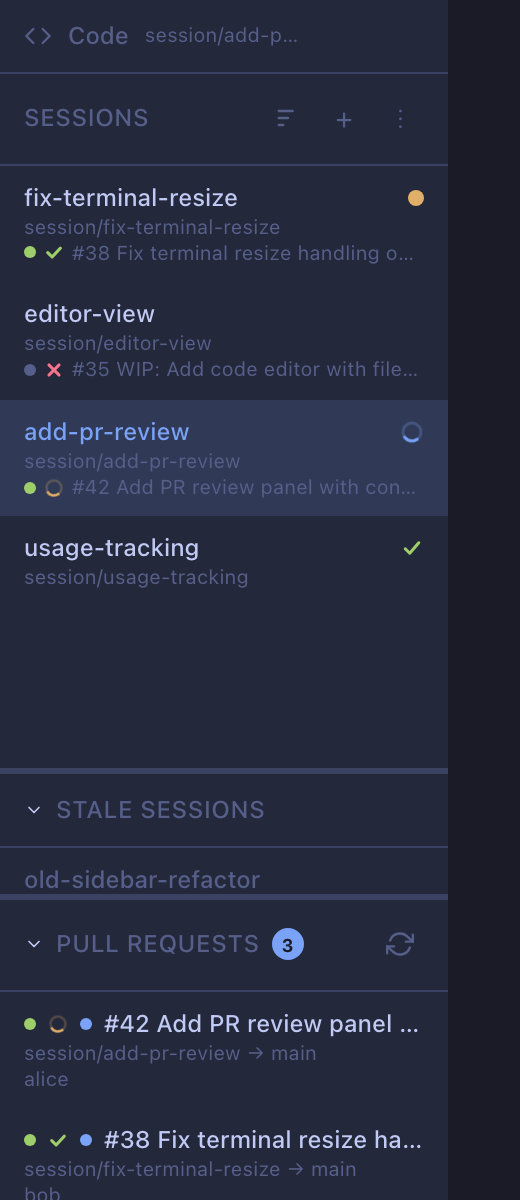
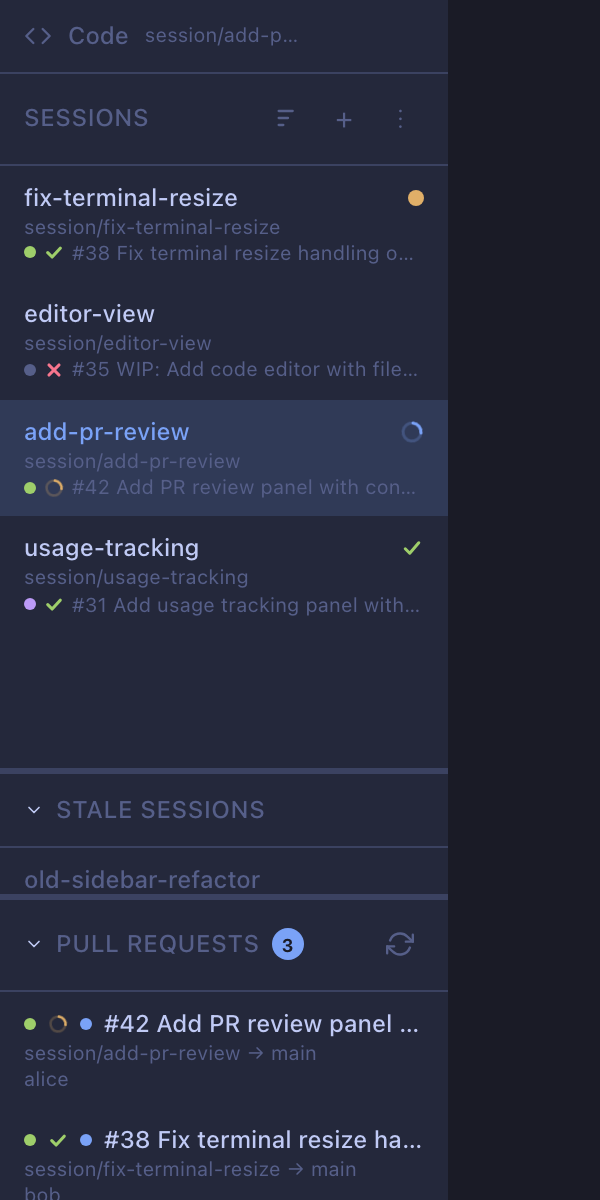
Hide merged PRs from sidebar list and mark linked sessions purple
Once a PR was merged it lingered in the sidebar's "Pull Requests" section
because `listOpenPRs` deliberately fetches both open and merged PRs (so
sessions can render the "Merged PR" group and run auto-cleanup). The
renderer never re-filtered, so the merged PR stayed visible until polling
plus the 50-item fetch limit eventually pushed it out. Sessions linked to
a merged PR also kept showing a green "open" dot since the dot ignored
`pr.state` entirely and only branched on `isDraft`.

Filter merged PRs out at the render boundary in SessionSidebar (PR list
and unseen-PR badge) while leaving the store untouched so grouping,
staleness, and auto-cleanup keep working. Add a `--color-merged` theme
token (purple) across all four themes and switch SessionCard and PRCard
to a tri-state dot — MERGED beats draft beats open — with a tooltip so
the dot is self-describing.

diff --git a/src/renderer/components/layout/SessionSidebar.tsx b/src/renderer/components/layout/SessionSidebar.tsx
@@ -184,6 +184,11 @@ export function SessionSidebar() {
     ].filter((g) => g.sessions.length > 0)
   }, [sortedSessions, groupBy, pullRequests])
 
+  const openPullRequests = useMemo(
+    () => pullRequests.filter((pr) => pr.state !== 'MERGED'),
+    [pullRequests]
+  )
+
   // Find sessions with merged PRs
   const mergedSessions = useMemo(() => {
     return sessions.filter((s) => {
@@ -270,7 +275,7 @@ export function SessionSidebar() {
     )
   }
 
-  const newPRCount = pullRequests.filter((pr) => !seenPRs.includes(pr.number)).length
+  const newPRCount = openPullRequests.filter((pr) => !seenPRs.includes(pr.number)).length
 
   const handleRefreshPRs = () => {
     if (!activeProject) return
@@ -464,12 +469,12 @@ export function SessionSidebar() {
               </IconButton>
             }
           >
-            {prsLoading && pullRequests.length === 0 ? (
+            {prsLoading && openPullRequests.length === 0 ? (
               <p className="text-text-muted text-xs text-center py-4">Loading...</p>
-            ) : pullRequests.length === 0 ? (
+            ) : openPullRequests.length === 0 ? (
               <p className="text-text-muted text-xs text-center py-4">No open PRs</p>
             ) : (
-              pullRequests.map((pr) => (
+              openPullRequests.map((pr) => (
                 <PRCard
                   key={pr.number}
                   pr={pr}

diff --git a/src/renderer/styles/globals.css b/src/renderer/styles/globals.css
@@ -25,6 +25,7 @@
   --color-success: #9ece6a;
   --color-danger: #f7768e;
   --color-warning: #e0af68;
+  --color-merged: #bb9af7;
 }
 
 /* --- Light --- */
@@ -40,6 +41,7 @@
   --color-success: #22c55e;
   --color-danger: #ef4444;
   --color-warning: #f59e0b;
+  --color-merged: #a855f7;
 }
 
 /* --- Soft Light (cream/pastel) --- */
@@ -55,6 +57,7 @@
   --color-success: #6a9e6b;
   --color-danger: #c46a6a;
   --color-warning: #c4976a;
+  --color-merged: #9b86b8;
 }
 
 /* --- Ultra Dark --- */
@@ -70,6 +73,7 @@
   --color-success: #4ade80;
   --color-danger: #fb7185;
   --color-warning: #fbbf24;
+  --color-merged: #a78bfa;
 }
 
 /* Tailwind theme tokens — reference the CSS custom properties */
@@ -85,6 +89,7 @@
   --color-success: var(--color-success);
   --color-danger: var(--color-danger);
   --color-warning: var(--color-warning);
+  --color-merged: var(--color-merged);
 }
 
 * {

diff --git a/src/renderer/components/sessions/SessionCard.tsx b/src/renderer/components/sessions/SessionCard.tsx
@@ -84,7 +84,10 @@ export function SessionCard({ session, isActive, isOpenedAsMain, status, pr, onC
         {pr && (
           <div className="flex items-center gap-1 mt-0.5 pr-5">
             <span
-              className={`shrink-0 w-1.5 h-1.5 rounded-full ${pr.isDraft ? 'bg-text-muted' : 'bg-success'}`}
+              title={pr.state === 'MERGED' ? 'Merged' : pr.isDraft ? 'Draft' : 'Open'}
+              className={`shrink-0 w-1.5 h-1.5 rounded-full ${
+                pr.state === 'MERGED' ? 'bg-merged' : pr.isDraft ? 'bg-text-muted' : 'bg-success'
+              }`}
             />
             <CIIndicator status={pr.ciStatus} />
             <span className="text-text-muted text-[10px] truncate">

diff --git a/src/renderer/components/pullrequests/PRCard.tsx b/src/renderer/components/pullrequests/PRCard.tsx
@@ -20,7 +20,10 @@ export function PRCard({ pr, isNew, isActive, onClick }: Props) {
     >
       <div className="flex items-center gap-1.5">
         <span
-          className={`shrink-0 w-1.5 h-1.5 rounded-full ${pr.isDraft ? 'bg-text-muted' : 'bg-success'}`}
+          title={pr.state === 'MERGED' ? 'Merged' : pr.isDraft ? 'Draft' : 'Open'}
+          className={`shrink-0 w-1.5 h-1.5 rounded-full ${
+            pr.state === 'MERGED' ? 'bg-merged' : pr.isDraft ? 'bg-text-muted' : 'bg-success'
+          }`}
         />
         <CIIndicator status={pr.ciStatus} />
         {isNew && (

diff --git a/mock/mockData.ts b/mock/mockData.ts
@@ -244,6 +244,17 @@ export const mockPullRequests: PullRequest[] = [
     state: 'OPEN',
     ciStatus: 'failure',
   },
+  {
+    number: 31,
+    title: 'Add usage tracking panel with rate limits',
+    headRefName: 'session/usage-tracking',
+    baseRefName: 'main',
+    author: 'bob',
+    updatedAt: hoursAgo(6),
+    isDraft: false,
+    state: 'MERGED',
+    ciStatus: 'success',
+  },
 ]
 
 export const mockPRDetail: PRDetail = {

diff --git a/src/renderer/components/sessions/SessionCard.stories.tsx b/src/renderer/components/sessions/SessionCard.stories.tsx
@@ -69,3 +69,14 @@ export const WithPR: Story = {
 export const WithDraftPR: Story = {
   args: { pr: { ...basePR, isDraft: true, title: 'WIP: Add code editor' } },
 }
+
+export const WithMergedPR: Story = {
+  args: {
+    pr: {
+      ...basePR,
+      state: 'MERGED' as const,
+      ciStatus: 'success' as const,
+      title: 'Add merged PR tracking',
+    },
+  },
+}
